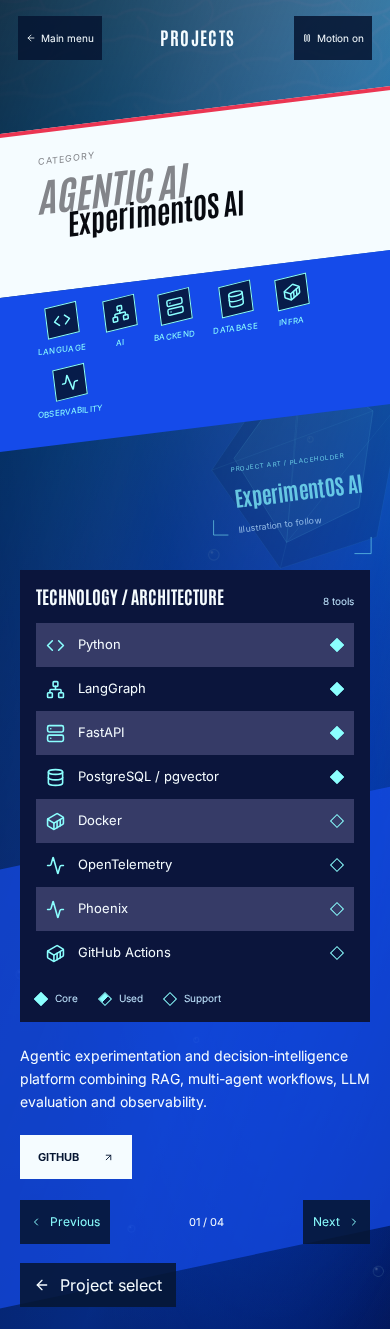
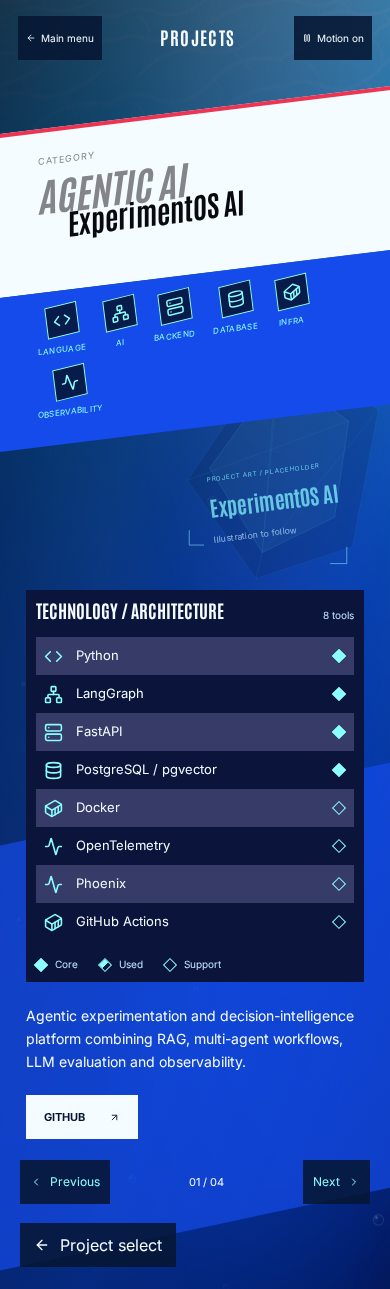
Tighten and center project detail composition

diff --git a/src/components/projects/projects.css b/src/components/projects/projects.css
@@ -246,3 +246,31 @@
 @media (min-width: 1024px) and (min-height: 700px) and (max-height: 800px) {
   .project-return, .project-detail-nav { bottom: 12px; }
 }
+/* Bring the technical snapshot and artwork into a compact central composition. */
+.technology-entry > span { min-width: 0; overflow-wrap: anywhere; }
+.technology-heading { flex-wrap: wrap; }
+@media (min-width: 768px) {
+  .project-detail-content { width: 52%; max-width: 720px; margin-left: 9vw; }
+  .technology-panel { padding: 9px; }
+  .technology-heading { margin-bottom: 6px; }
+  .technology-heading h3 { font-size: 15px; }
+  .technology-entry { grid-template-columns: 18px minmax(0, 1fr) 10px; gap: 8px; min-height: 26px; padding: 3px 8px; font-size: 12px; line-height: 18px; }
+  .technology-entry > svg { width: 17px; height: 17px; }
+  .technology-legend { margin-top: 8px; }
+  .project-purpose { font-size: 13px; line-height: 1.5; }
+  .project-compendium[data-view='details'] .project-art-anchor { transform: translate(-4%, 0%) scale(.80); }
+}
+@media (min-width: 1024px) and (min-height: 700px) {
+  .project-compendium[data-view='details'] .project-detail-content { padding-top: clamp(386px, 51svh, 530px); }
+}
+@media (min-width: 768px) and (max-width: 1023px) {
+  .project-detail-content { width: 60%; margin-left: 7vw; }
+  .project-compendium[data-view='details'] .project-detail-content { padding-top: 445px; }
+}
+@media (max-width: 767px) {
+  .project-detail-content { margin-left: 26px; margin-right: 26px; }
+  .project-compendium[data-view='details'] .project-detail-content { padding-top: 590px; }
+  .technology-panel { padding: 10px; }
+  .technology-entry { min-height: 38px; padding: 6px 8px; }
+  .project-compendium[data-view='details'] .project-art-anchor { transform: translate(-8%, -310px) scale(.78); }
+}

diff --git a/docs/design/verification.md b/docs/design/verification.md
@@ -194,3 +194,7 @@ Raised and shortened the desktop detail plane, preserving a clear gap above the 
 ### Detail header and affinity-band refinement — 2026-10-03
 
 Removed all project durations. Grouped gray category and black project-name typography at the quarter-width origin, with a restrained overlap. Moved technology categories into a taller royal-blue header band sharing that origin, separated the matrix below, and introduced alternating navy/lavender checkerboard technology cells (alternating rows on mobile). Desktop fit and band/panel separation are covered by the Projects suite.
+
+### Compact centered technical snapshot — 2026-10-03
+
+Reduced the desktop technology panel to a 52%-width, 720px-max content region starting at 9vw; tightened row padding, icons, headings, and legend spacing while allowing long tool names to wrap. Moved the technical snapshot downward and the artwork inward with its existing shared transform. Tablet and mobile preserve readable wrapping and natural flow. Seven-viewport Projects checks cover desktop fit, band separation, action/footer clearance, keyboard interactions, and reduced motion.
